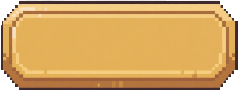
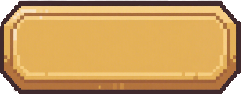
美术
美术

diff --git a/Assets/Z_Level0/Z_Texture/Sample/Z_Texture_Sample.cs b/Assets/Z_Level0/Z_Texture/Sample/Z_Texture_Sample.cs
@@ -20,6 +20,6 @@ public class Z_Texture_Sample :MonoBehaviour
         TextureTransform.GetTargetSize(texList.ToArray(), 50, 50);
         var newTex = TextureCombine.FillTexture2DsToTexture2D(texList.ToArray(), 2, 2, 10);
         target.texture = newTex;
-        File.WriteAllBytes(Application.dataPath+"/test.png",TextureHelper.GetTextureByte(TextureTransform.GetTargetSize(texList[0],250,100)));
+        File.WriteAllBytes(Application.dataPath+"/test.png",TextureHelper.GetTextureByte(TextureTransform.GetTargetSize(texList[0],300,100)));
     }
 }
